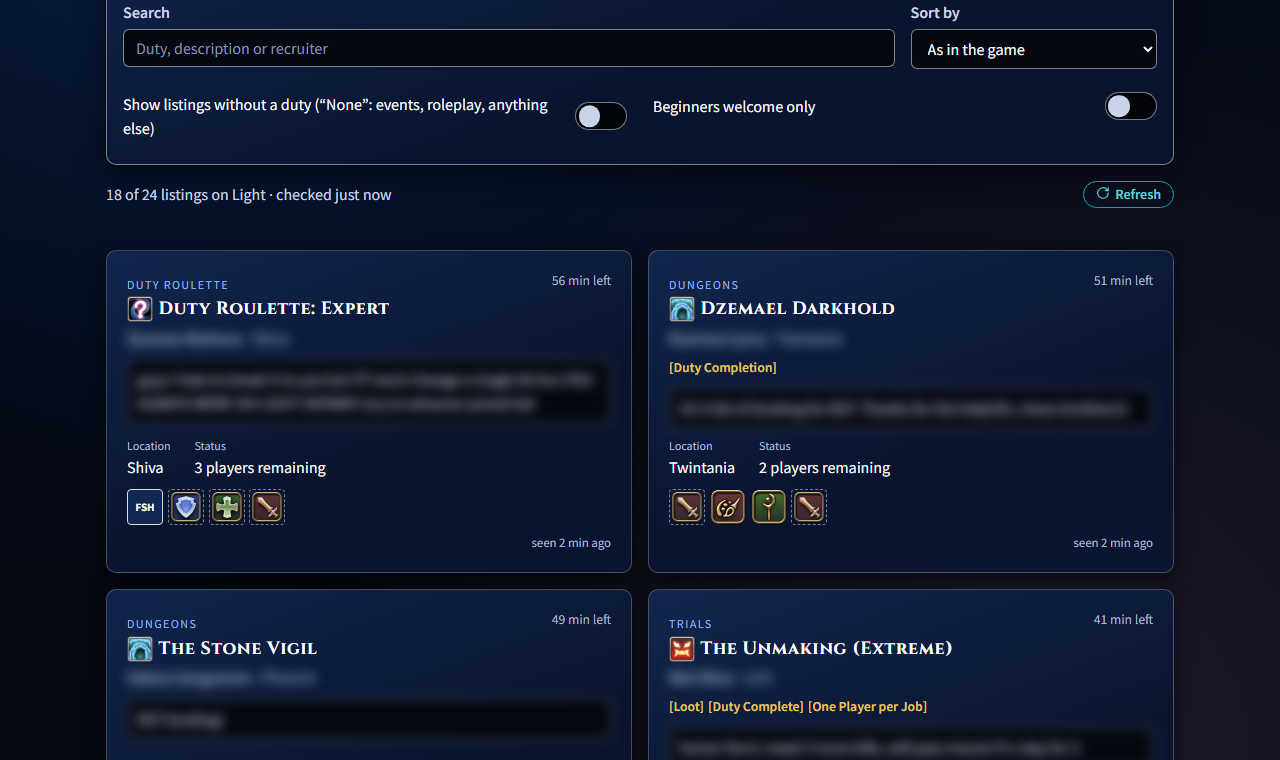
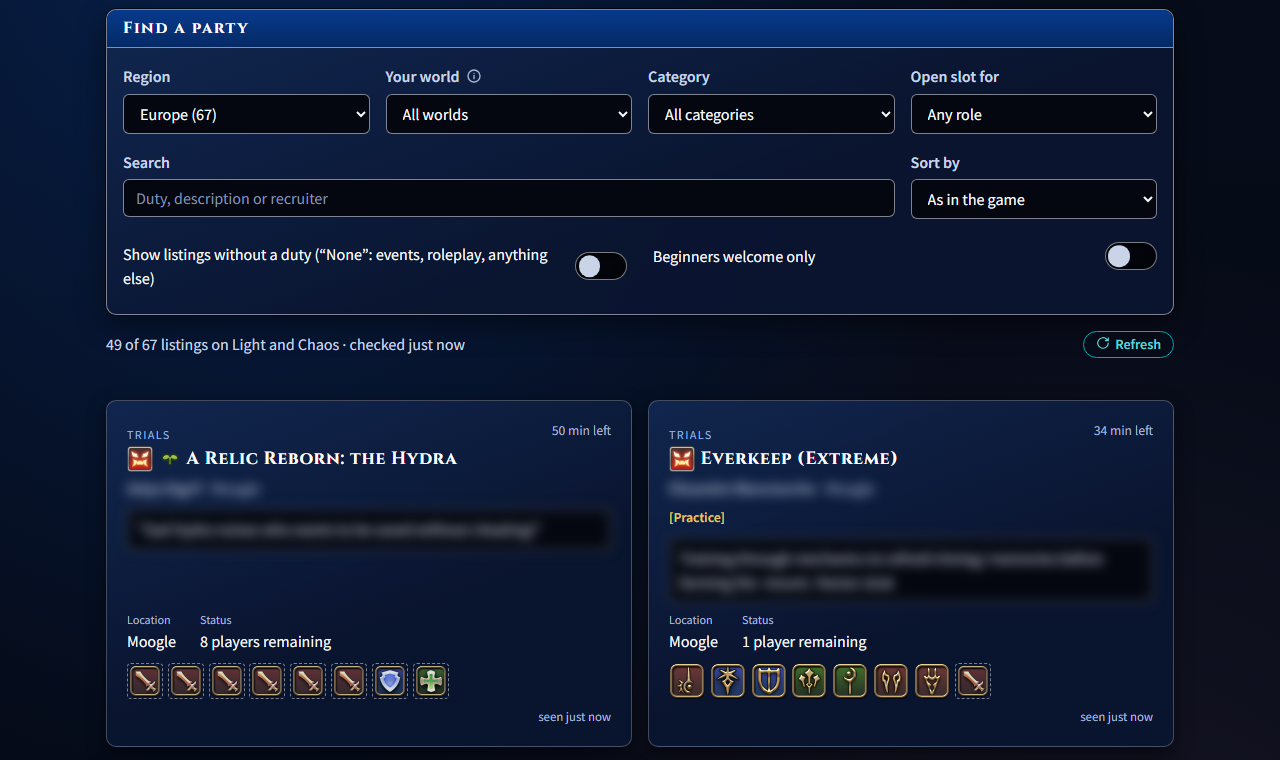
feat(party-finder): pick a region, and worlds by data centre
The picker's options named every data centre in a region ("North
America: Aether, Crystal, Dynamis, Primal (175)"), too long for its
box. It's now the Region picker, each option just the region and its
count ("Europe (67)"), and the list below is Every region. The data
centres show where they help: the world picker groups the region's
worlds under them (Light, Chaos), plain for a region of one (Materia).
The guide's screenshot shows the new picker.

diff --git a/libs/party-finder/feature-party-finder/src/lib/party-finder/party-finder.component.spec.ts b/libs/party-finder/feature-party-finder/src/lib/party-finder/party-finder.component.spec.ts
@@ -22,7 +22,13 @@ const uploaded = (id: string) => ({
 
 const ODIN = { id: 66, name: 'Odin' };
 const SHIVA = { id: 67, name: 'Shiva' };
-const LIGHT_WORLDS = [{ id: 402, name: 'Alpha' }, ODIN, SHIVA];
+// The board's worlds: Light's and Chaos's, one region.
+const LIGHT_WORLDS = [
+  { id: 402, name: 'Alpha', dataCentre: 'Light' as const },
+  { ...ODIN, dataCentre: 'Light' as const },
+  { ...SHIVA, dataCentre: 'Light' as const },
+  { id: 71, name: 'Moogle', dataCentre: 'Chaos' as const },
+];
 
 function listing(id: string, changes: Partial<PartyFinderListing> = {}): PartyFinderListing {
   return {
@@ -229,7 +235,7 @@ describe('PartyFinderComponent', () => {
       board({
         dataCentre: 'Materia',
         dataCentres: ['Materia'],
-        worlds: [{ id: 22, name: 'Bismarck' }],
+        worlds: [{ id: 22, name: 'Bismarck', dataCentre: 'Materia' }],
         listings: [listing('22-9', { world: { id: 22, name: 'Bismarck' }, duty: 'Sastasha' })],
       }),
     );
@@ -257,9 +263,7 @@ describe('PartyFinderComponent', () => {
     await fixture.whenStable();
 
     expect(select('pf-data-centre').value).toBe('Chaos');
-    expect(page.querySelector('cdt-pf-data-centres [aria-current=page]')?.textContent?.trim()).toBe(
-      'Europe: Light, Chaos (3)',
-    );
+    expect(page.querySelector('cdt-pf-data-centres [aria-current=page]')?.textContent?.trim()).toBe('Europe (3)');
     expect(select('pf-world').value).toBe('');
   });
 
@@ -322,9 +326,9 @@ describe('PartyFinderComponent', () => {
     expect(card.querySelectorAll('.share button')).toHaveLength(2);
   });
 
-  it('opens what a link asks for, and drops a world the data centre does not have', async () => {
+  it('opens what a link asks for, and drops a world the region does not have', async () => {
     const { fixture, http, select } = await render(
-      '/party-finder?dc=light&world=moogle&category=high-end-duty&slot=tank&sort=name&no-duty=show',
+      '/party-finder?dc=light&world=cerberus&category=high-end-duty&slot=tank&sort=name&no-duty=show',
     );
     http.expectOne('/party-finder?dataCentre=Light').flush(board());
     await fixture.whenStable();
@@ -349,7 +353,7 @@ describe('PartyFinderComponent', () => {
     expect(page.querySelector('.join a')?.getAttribute('href')).toBe('/register');
   });
 
-  it('offers every physical data centre, its data centres together, with how many listings are up, Europe first', async () => {
+  it('offers every region, its data centres together, with how many listings are up, Europe first', async () => {
     const { fixture, http, select } = await render();
     http.expectOne('/party-finder?dataCentre=Light').flush(board());
     await fixture.whenStable();
@@ -357,13 +361,36 @@ describe('PartyFinderComponent', () => {
     const options = [...select('pf-data-centre').querySelectorAll('option')];
     // Europe as its list counts (3 listings up); the others as the counts say.
     expect(options.map((option) => option.textContent?.trim())).toEqual([
-      'Europe: Light, Chaos (3)',
-      'North America: Aether, Crystal, Dynamis, Primal (100)',
-      'Japan: Elemental, Gaia, Mana, Meteor (10)',
-      'Oceania: Materia (46)',
+      'Europe (3)',
+      'North America (100)',
+      'Japan (10)',
+      'Oceania (46)',
     ]);
     expect(options.map((option) => option.value)).toEqual(['Light', 'Aether', 'Elemental', 'Materia']);
     expect(select('pf-data-centre').value).toBe('Light');
+  });
+
+  it("groups the region's worlds by data centre, and lists them plain where it has just one", async () => {
+    const { fixture, http, select, change } = await render();
+    http.expectOne('/party-finder?dataCentre=Light').flush(board());
+    await fixture.whenStable();
+
+    const groups = [...select('pf-world').querySelectorAll('optgroup')];
+    expect(groups.map((g) => g.label)).toEqual(['Light', 'Chaos']);
+    expect([...groups[1].querySelectorAll('option')].map((o) => o.value)).toEqual(['moogle']);
+
+    await change('pf-data-centre', 'Materia');
+    await fixture.whenStable();
+    http.expectOne('/party-finder?dataCentre=Materia').flush(
+      board({
+        dataCentre: 'Materia',
+        dataCentres: ['Materia'],
+        worlds: [{ id: 22, name: 'Bismarck', dataCentre: 'Materia' }],
+      }),
+    );
+    await fixture.whenStable();
+    expect(select('pf-world').querySelectorAll('optgroup')).toHaveLength(0);
+    expect([...select('pf-world').querySelectorAll('option')].map((o) => o.value)).toEqual(['', 'bismarck']);
   });
 
   it('lists like the game, or in the order picked', async () => {

diff --git a/libs/party-finder/data-access/src/lib/party-finder.store.ts b/libs/party-finder/data-access/src/lib/party-finder.store.ts
@@ -83,6 +83,17 @@ export const PartyFinderStore = signalStore(
     return {
       // The data centre's worlds, each with its id in the query string.
       worlds: computed(() => (store.board()?.worlds ?? []).map((world) => ({ id: worldId(world), name: world.name }))),
+      // The same worlds by data centre, for the picker's groups: a region
+      // has several (Light and Chaos); none when it has just one (Materia).
+      worldGroups: computed(() => {
+        const worlds = store.board()?.worlds ?? [];
+        const names = [...new Set(worlds.map((world) => world.dataCentre))];
+        if (names.length < 2) return [];
+        return names.map((name) => ({
+          name,
+          worlds: worlds.filter((w) => w.dataCentre === name).map((w) => ({ id: worldId(w), name: w.name })),
+        }));
+      }),
       // The game's role icons and the beginners' sprout, once loaded.
       // The same icons from one refresh to the next don't redraw the list.
       icons: computed(() => store.board()?.icons ?? null, {
@@ -96,12 +107,12 @@ export const PartyFinderStore = signalStore(
       regions: computed(() =>
         store.regions().length ? store.regions() : [{ name: '', dataCentres: [store.dataCentre()] }],
       ),
-      // The physical data centres, for the pickers: each region's data
-      // centres share one Party Finder in the game (since patch 7.58 in
-      // Europe and North America). Each with the data centre it goes to
+      // The regions, for the pickers: each region's data centres share one
+      // Party Finder in the game (a physical data centre; since patch 7.58
+      // in Europe and North America). Each with the data centre it goes to
       // (the one shown, if it's there), whether it's the one shown, and its
-      // name with how many listings are up ("Europe: Light, Chaos (138)").
-      // The one shown counts its list, so the two agree.
+      // name with how many listings are up ("Europe (138)"). The one shown
+      // counts its list, so the two agree.
       physicalDataCentres: computed(() => {
         const counts = new Map(store.counts().map((c) => [c.dataCentre as string, c.listings]));
         const shown = store.board()?.dataCentre === store.dataCentre();
@@ -110,8 +121,7 @@ export const PartyFinderStore = signalStore(
           const known = region.dataCentres.every((name) => counts.has(name));
           const count =
             current && shown ? live().length : region.dataCentres.reduce((n, d) => n + (counts.get(d) ?? 0), 0);
-          const names = region.dataCentres.join(', ');
-          const name = region.name ? `${region.name}: ${names}` : names;
+          const name = region.name || region.dataCentres.join(', ');
           return {
             value: current ? store.dataCentre() : region.dataCentres[0],
             current,

diff --git a/libs/party-finder/feature-party-finder/src/lib/pf-filters/pf-filters.component.html b/libs/party-finder/feature-party-finder/src/lib/pf-filters/pf-filters.component.html
@@ -1,6 +1,6 @@
 <cdt-panel heading="Find a party">
   <div class="fields">
-    <cdt-field label="Data centre" for="pf-data-centre">
+    <cdt-field label="Region" for="pf-data-centre">
       <select #dataCentre id="pf-data-centre" cdtInput (change)="setDataCentre(dataCentre.value)">
         @for (option of store.physicalDataCentres(); track option.value) {
           <option [value]="option.value" [selected]="option.current">{{ option.label }}</option>
@@ -11,12 +11,20 @@
     <cdt-field
       label="Your world"
       for="pf-world"
-      hint="What you can join from there: the whole data centre, plus that world's own Hunt and FATE parties."
+      hint="What you can join from there: the whole region, plus that world's own Hunt and FATE parties."
     >
       <select #world id="pf-world" cdtInput (change)="setWorld(world.value)">
         <option value="" [selected]="store.filters().world === null">All worlds</option>
-        @for (option of store.worlds(); track option.id) {
-          <option [value]="option.id" [selected]="option.id === store.filters().world">{{ option.name }}</option>
+        @for (group of store.worldGroups(); track group.name) {
+          <optgroup [label]="group.name">
+            @for (option of group.worlds; track option.id) {
+              <option [value]="option.id" [selected]="option.id === store.filters().world">{{ option.name }}</option>
+            }
+          </optgroup>
+        } @empty {
+          @for (option of store.worlds(); track option.id) {
+            <option [value]="option.id" [selected]="option.id === store.filters().world">{{ option.name }}</option>
+          }
         }
       </select>
     </cdt-field>

diff --git a/libs/party-finder/feature-party-finder/src/lib/pf-data-centres/pf-data-centres.component.spec.ts b/libs/party-finder/feature-party-finder/src/lib/pf-data-centres/pf-data-centres.component.spec.ts
@@ -17,7 +17,7 @@ import { PfDataCentresComponent } from './pf-data-centres.component';
 class HostComponent {}
 
 describe('PfDataCentresComponent', () => {
-  it("links to every physical data centre with its listings up, keeping the member's other choices, the current one marked", async () => {
+  it("links to every region with its listings up, keeping the member's other choices, the current one marked", async () => {
     TestBed.configureTestingModule({
       providers: [
         provideHttpClient(),
@@ -52,7 +52,7 @@ describe('PfDataCentresComponent', () => {
 
     const links = [...page.querySelectorAll('a')];
     // Light and Chaos are one: the one shown counts its list (none here).
-    expect(links.map((a) => a.textContent?.trim())).toEqual(['Europe: Light, Chaos (0)', 'Oceania: Materia (4)']);
+    expect(links.map((a) => a.textContent?.trim())).toEqual(['Europe (0)', 'Oceania (4)']);
     expect(links.map((a) => a.getAttribute('href'))).toEqual([
       '/party-finder?dc=chaos&slot=healer',
       '/party-finder?dc=materia&slot=healer',

diff --git a/libs/party-finder/feature-party-finder/src/lib/pf-data-centres/pf-data-centres.component.ts b/libs/party-finder/feature-party-finder/src/lib/pf-data-centres/pf-data-centres.component.ts
@@ -2,9 +2,9 @@ import { ChangeDetectionStrategy, Component, inject } from '@angular/core';
 import { RouterLink } from '@angular/router';
 import { PartyFinderStore } from '@everise/party-finder/data-access';
 
-// "Every data centre": a link to each physical data centre's listings (its
-// data centres share one Party Finder), with how many are up, keeping what
-// else the member picked (all its worlds). Reads the page's PartyFinderStore.
+// "Every region": a link to each region's listings (its data centres share
+// one Party Finder), with how many are up, keeping what else the member
+// picked (all its worlds). Reads the page's PartyFinderStore.
 @Component({
   selector: 'cdt-pf-data-centres',
   templateUrl: './pf-data-centres.component.html',

diff --git a/libs/party-finder/feature-party-finder/src/lib/pf-data-centres/pf-data-centres.component.html b/libs/party-finder/feature-party-finder/src/lib/pf-data-centres/pf-data-centres.component.html
@@ -1,5 +1,5 @@
 <nav aria-labelledby="pf-data-centres">
-  <h2 id="pf-data-centres">Every data centre</h2>
+  <h2 id="pf-data-centres">Every region</h2>
   <ul>
     @for (option of store.physicalDataCentres(); track option.value) {
       <li>

diff --git a/docs/features/party-finder.md b/docs/features/party-finder.md
@@ -24,13 +24,13 @@ Everything the page shows is in its query string, by id (`party-finder-query.ts`
 ?dc=light&world=odin&category=high-end-duty-savage&slot=healer&search=coil&sort=ending-soon&no-duty=show&beginners=only&page=2
 ```
 
-Without a data centre, the page opens on Light with all its worlds. The game's Party Finder works across a physical data centre (North America and Europe since patch 7.58, 10 November 2026; Japan before), so the page shows one too: Light and Chaos together, North America's four, Japan's four, or Materia, with all their worlds. The data centre picker and the **Every data centre** list offer one entry per physical data centre, with how many listings are up on it (`Europe: Light, Chaos (138)`). Picking another one clears the world and category.
+Without a data centre, the page opens on Light with all its worlds. The game's Party Finder works across a physical data centre (North America and Europe since patch 7.58, 10 November 2026; Japan before), so the page shows one too: Light and Chaos together, North America's four, Japan's four, or Materia, with all their worlds. The **Region** picker and the **Every region** list offer one entry per physical data centre, with how many listings are up on it (`Europe (138)`), and the **Your world** picker groups the region's worlds by data centre. Picking another region clears the world and category.
 
 ## The list
 
 - **Refresh:** the store asks every 30 seconds while the page is in view. Nothing is kept in the browser, and a refresh keeps the reader's place.
 - **Filters** (`listing-filters.ts`):
-  - **World:** what can be joined from it, which is the whole physical data centre plus that world's own Hunt and FATE parties.
+  - **World:** what can be joined from it, which is the whole region plus that world's own Hunt and FATE parties.
   - **Category:** every category the page knows, even with no listings, plus any new one from xivpf and the one picked.
   - **Open slot** for a role, and words to find.
   - Listings without a duty are hidden unless switched on.

diff --git a/docs/_guide/party-finder.md b/docs/_guide/party-finder.md
@@ -8,14 +8,14 @@ description: Find a party from your browser, filter it, and share it with the fr
 
 Every party being recruited in the game right now, on any data centre, without logging in to the game. Open it from **Community → Party Finder**. It starts on **Light and Chaos**, with all their worlds.
 
-![Party Finder listings on Light](/docs/frontend/screenshots/guide/party-finder.png)
+![Party Finder listings in Europe, Light and Chaos together](/docs/frontend/screenshots/guide/party-finder.png)
 
 Recruiters' names and party descriptions are blurred in this picture.
 
 ## Finding a party
 
-1. **Pick your data centre.** Since patch 7.58, the game shows the parties of every data centre in the same region together (Light and Chaos are one Party Finder), and so does the site. Each choice says how many parties are up there right now, Europe first.
-2. **Pick your world, if you like.** You then see what you can actually join from it: every data centre in your region, plus your own world's Hunt and FATE parties.
+1. **Pick your region.** Since patch 7.58, the game shows the parties of every data centre in the same region together (Light and Chaos are one Party Finder), and so does the site. Each region says how many parties are up there right now, Europe first.
+2. **Pick your world, if you like.** They're grouped by data centre. You then see what you can actually join from it: every data centre in your region, plus your own world's Hunt and FATE parties.
 3. **Narrow it down:**
    - **Category:** every category is listed, even ones with nothing in them right now;
    - **Open slot for:** your role;
